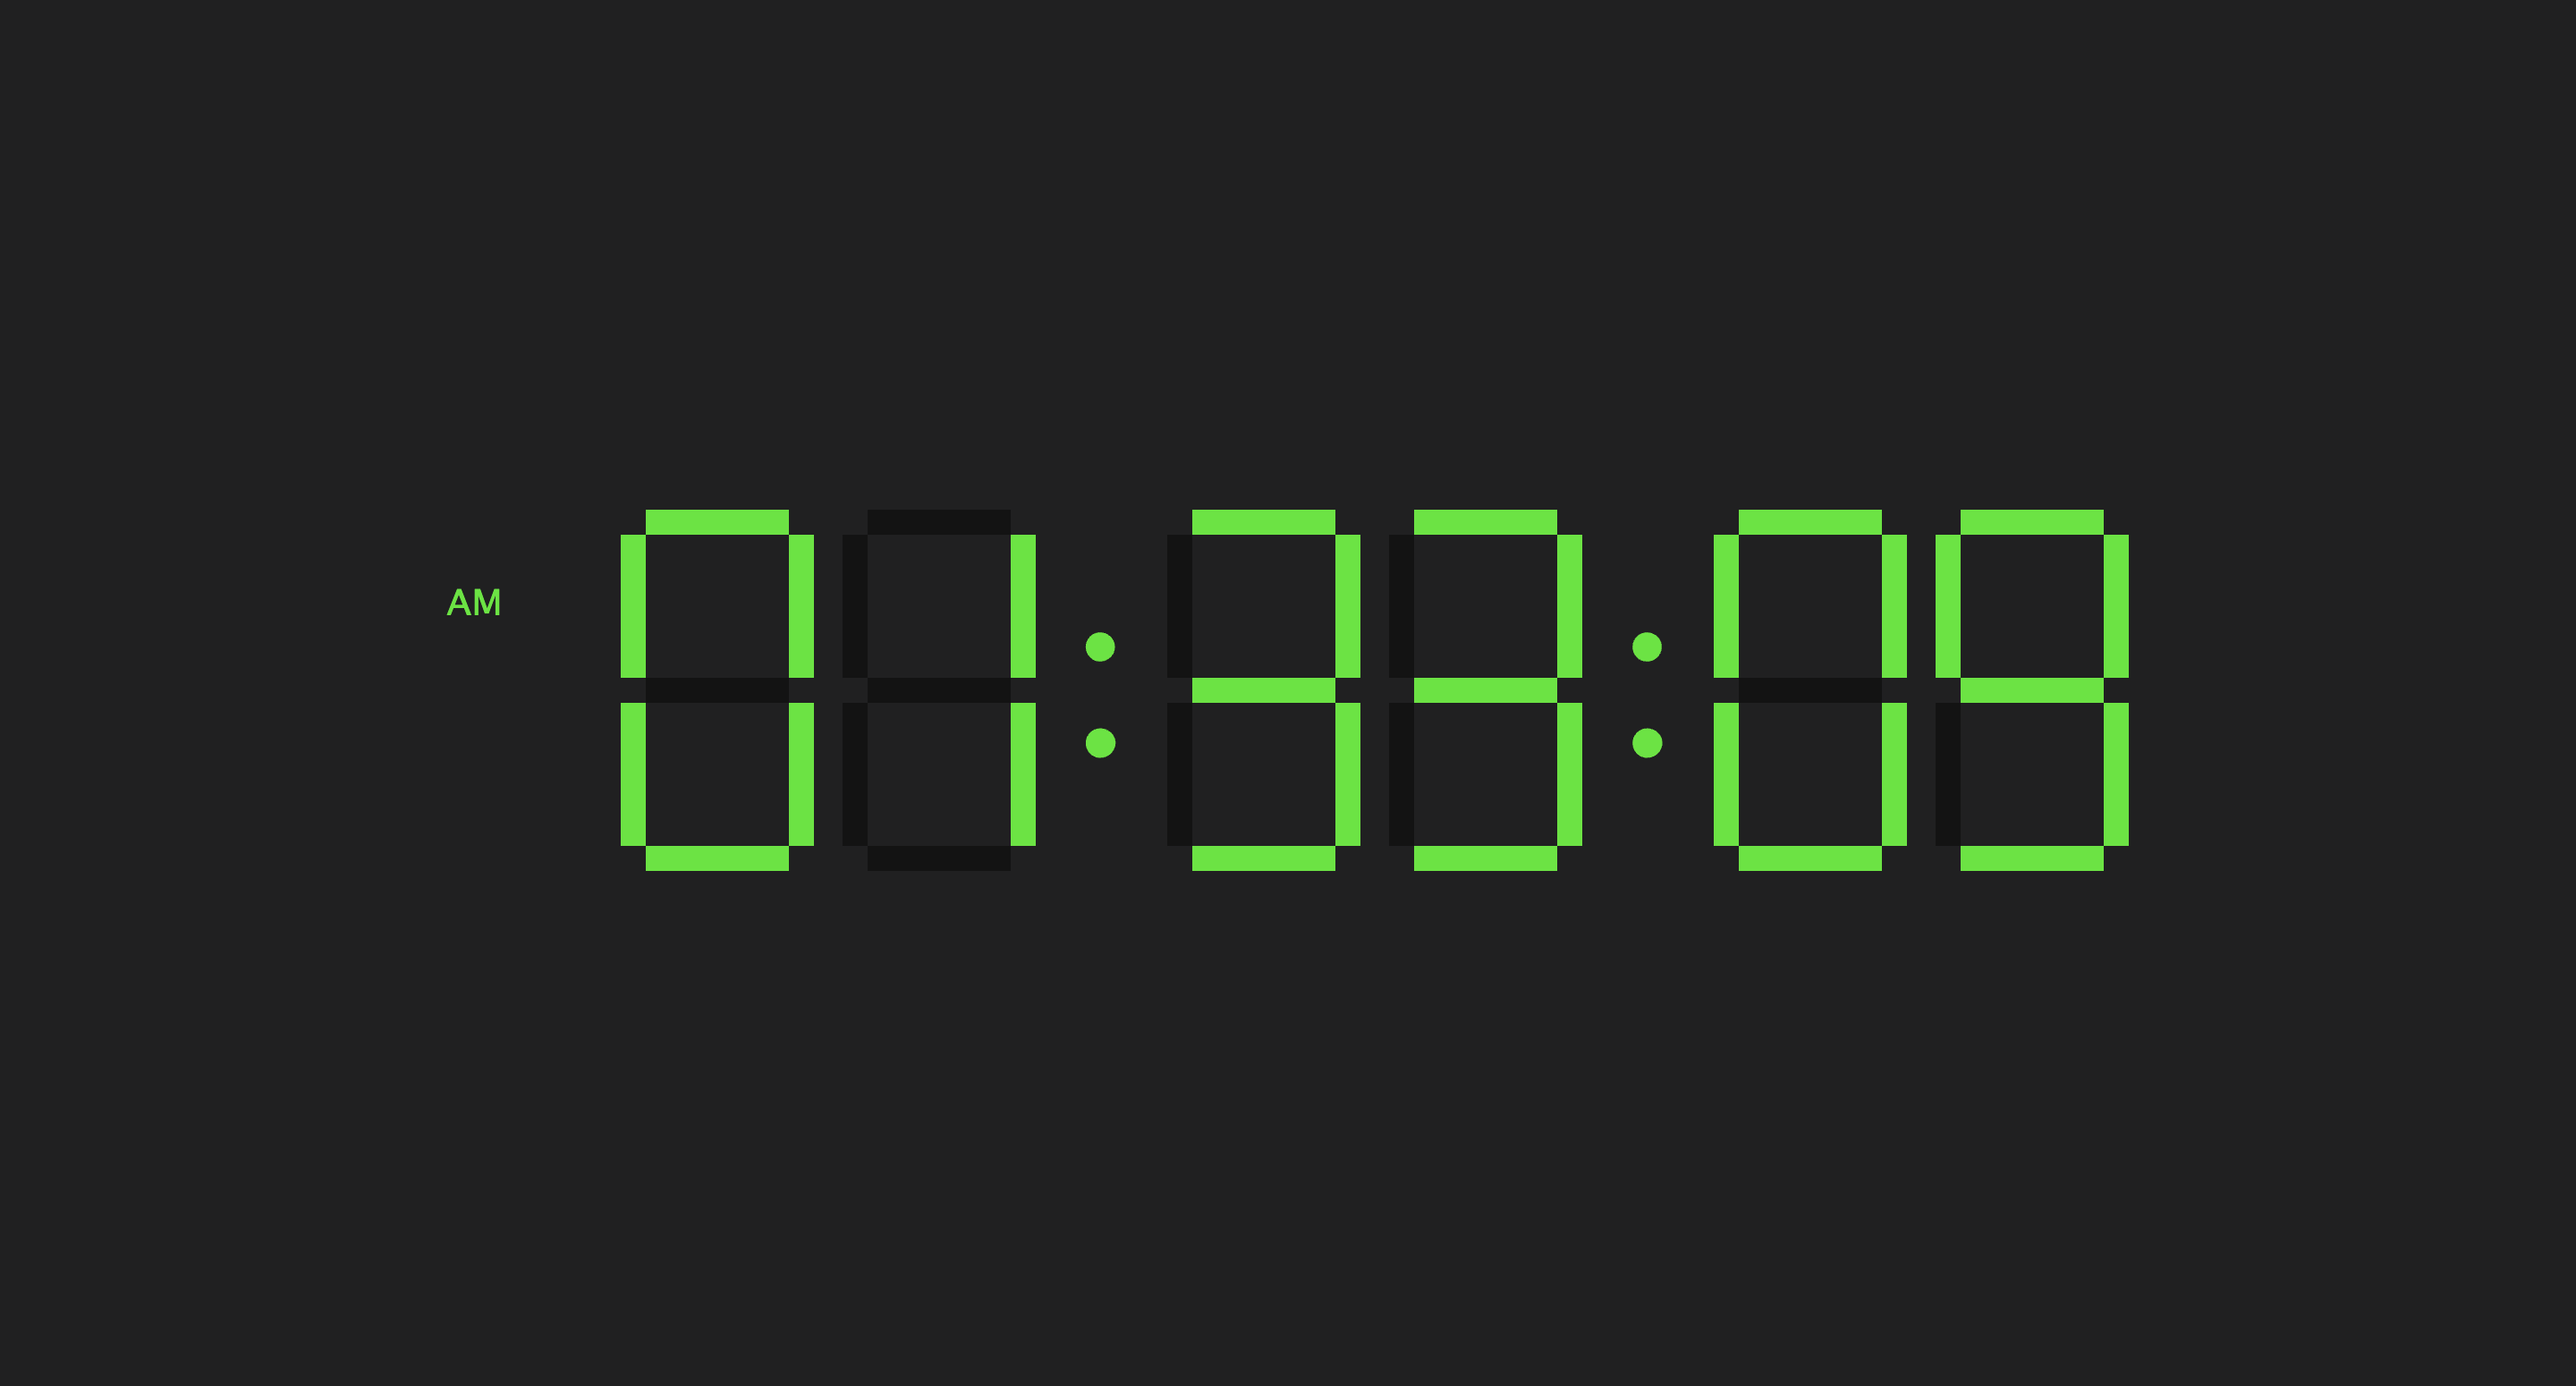
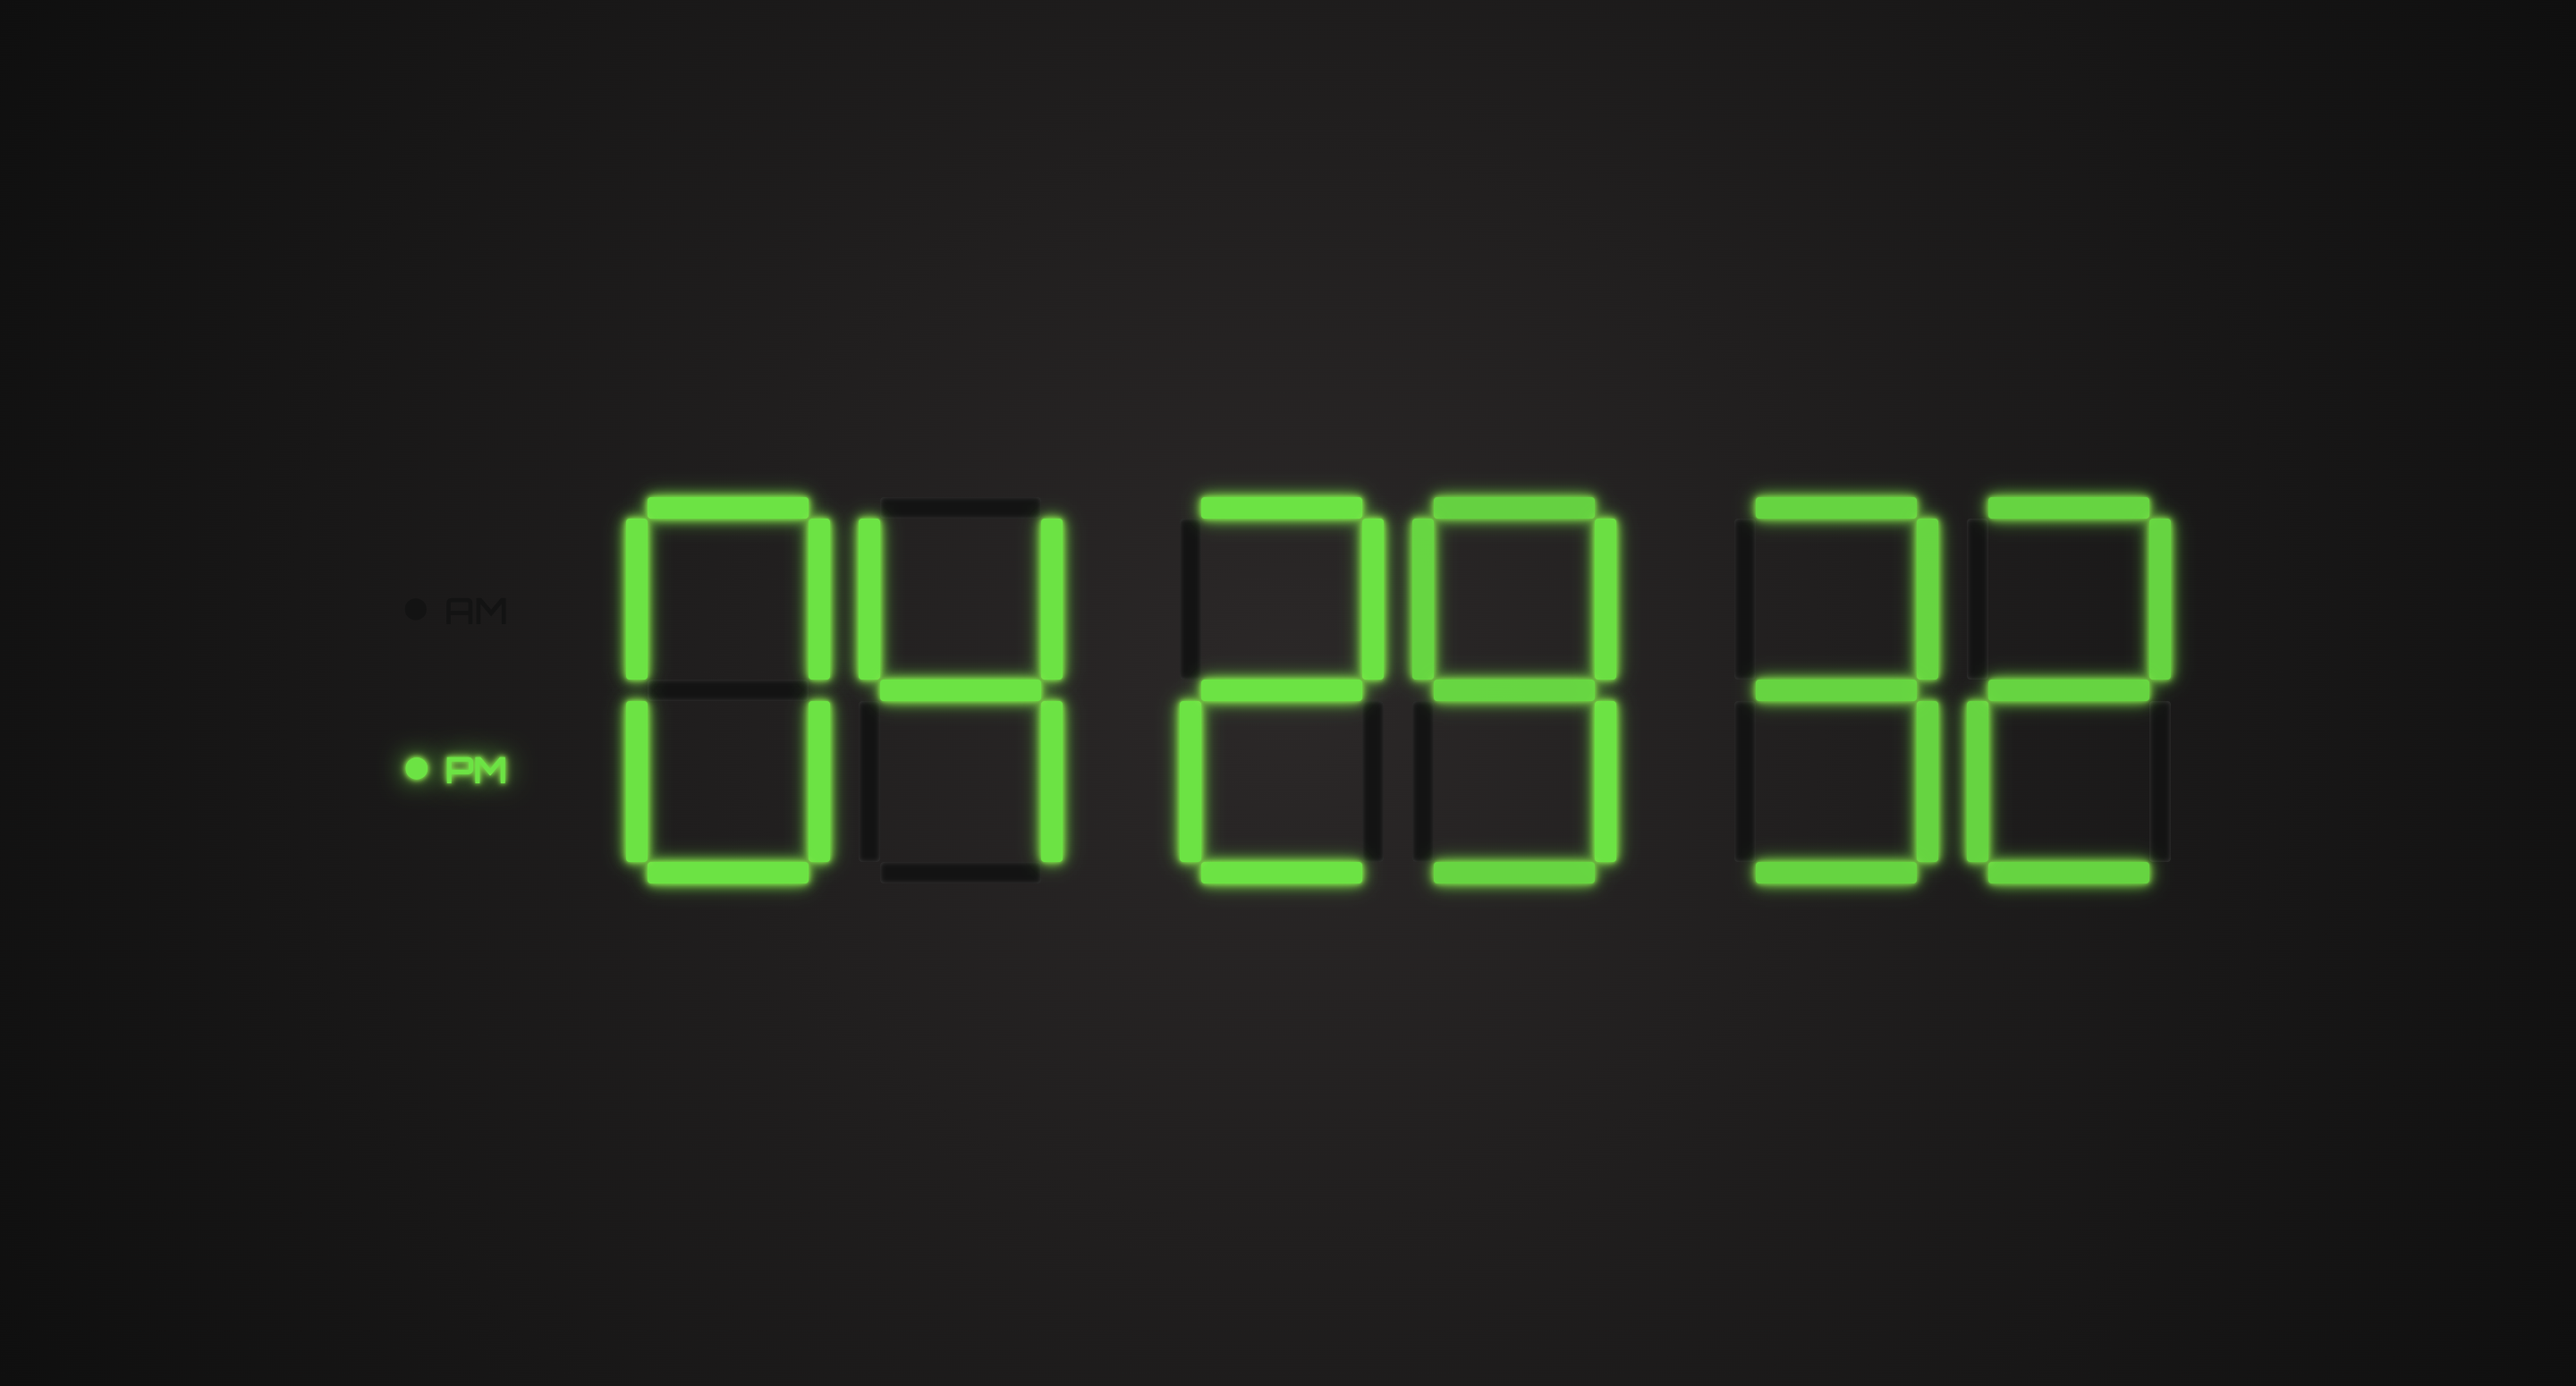
updated the image for clock project

Changed region(s): [[0.1562, 0.3406, 0.8438, 0.6503]]

diff --git a/src/data.js b/src/data.js
@@ -49,7 +49,7 @@ const projects = [
     screenShotLink: clock,
     gitLink: 'https://github.com/jehuzepedasilva2/watch-me', 
     liveLink: 'https://watch-me.pages.dev/', 
-    description: "It's just a retro style clock.. Made with love (and CSS grid). Click around, enjoy the brightness, and pretend it's 1985."
+    description: "It's just a retro style clock.. Made with love (and CSS grid). Enjoy the brightness, and pretend it's 1985."
   },
   {
     id: 4,
